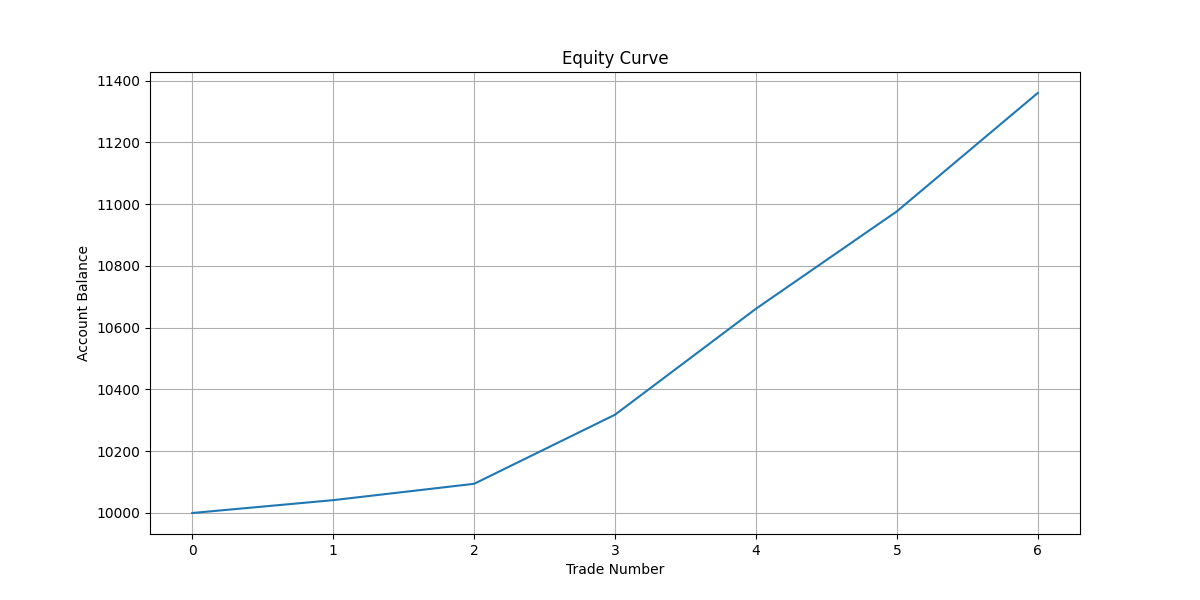
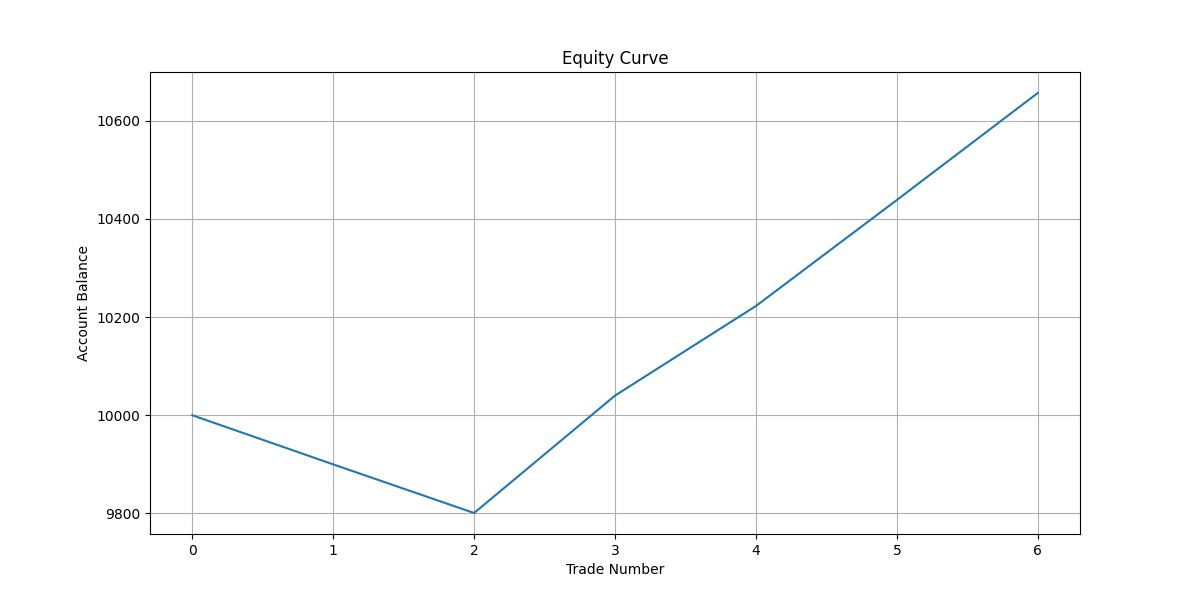
feat: Integrate ExitManager into simulation for consistent exit logic with live trading

diff --git a/ml/evaluation/simulate_pnl.py b/ml/evaluation/simulate_pnl.py
@@ -11,6 +11,7 @@ from ml.data.dataset_builder import TimeSeriesDataset
 from ml.models.lstm_model import LSTMClassifier
 import json
 from ml.evaluation.performance_tracker import PerformanceTracker
+from strategy.exits.exit_manager import ExitManager
 
 # Configure logging
 logging.basicConfig(
@@ -56,6 +57,22 @@ class PnLSimulator:
         self.rsi_oversold = rsi_oversold
         self.trailing_stop_activation = trailing_stop_activation or float(risk_config.get('trailing_stop_activation', 0.5))
         self.trailing_stop_distance = trailing_stop_distance or float(risk_config.get('trailing_stop_distance', 0.8))
+        
+        # Initialize ExitManager with config
+        trailing_config = {
+            "activation_threshold": self.trailing_stop_activation,
+            "trail_distance_atr_mult": self.trailing_stop_distance,
+            "max_loss_pct": self.max_loss_pct,
+            "max_holding_time": self.max_holding_periods
+        }
+        
+        hard_stop_config = {
+            "stop_loss_atr_mult": self.atr_multiplier,
+            "max_loss_pct": self.max_loss_pct,
+            "max_holding_time": self.max_holding_periods
+        }
+        
+        self.exit_manager = ExitManager(trailing_config, hard_stop_config)
         
         # Performance tracking
         self.balance_history = [initial_balance]
@@ -179,28 +196,6 @@ class PnLSimulator:
         position_size = risk_amount / (atr * self.atr_multiplier)
         return position_size
     
-    def update_trailing_stop(self, price: float, atr: float) -> None:
-        """Update trailing stop if conditions are met"""
-        if self.current_position is None:
-            return
-            
-        # Calculate profit target
-        target = abs(self.current_position['take_profit'] - self.current_position['entry_price'])
-        current_profit = abs(price - self.current_position['entry_price'])
-        
-        # Check if trailing stop should be activated
-        if current_profit >= target * self.trailing_stop_activation:
-            trailing_distance = atr * self.trailing_stop_distance
-            
-            if self.current_position['type'] == 'SELL':
-                new_stop = price + trailing_distance
-                if new_stop < self.current_position['stop_loss']:
-                    self.current_position['stop_loss'] = new_stop
-            else:  # BUY
-                new_stop = price - trailing_distance
-                if new_stop > self.current_position['stop_loss']:
-                    self.current_position['stop_loss'] = new_stop
-    
     def execute_trade(
         self,
         signal: Dict[str, Any],  # Changed from int to Dict
@@ -232,29 +227,22 @@ class PnLSimulator:
         
         # Check if we should close existing position
         if self.current_position:
-            # Update trailing stop if active
-            atr = self.calculate_atr()
-            self.update_trailing_stop(price, atr)
+            # Get price history for ATR calculation
+            high_prices = [p['high'] for p in self.price_history]
+            low_prices = [p['low'] for p in self.price_history]
+            close_prices = [p['close'] for p in self.price_history]
             
-            # Check stop conditions
-            stop_hit = price <= self.current_position['stop_loss'] if self.current_position['type'] == 'BUY' \
-                else price >= self.current_position['stop_loss']
-                
-            take_profit_hit = price >= self.current_position['take_profit'] if self.current_position['type'] == 'BUY' \
-                else price <= self.current_position['take_profit']
-                
-            # Close position if any exit condition is met
-            if stop_hit:
-                self.close_position(price, timestamp, "stop_loss")
-                return
-            elif take_profit_hit:
-                self.close_position(price, timestamp, "take_profit")
-                return
-                
-            # Check time-based exit
-            holding_time = timestamp - self.current_position['entry_time']
-            if holding_time.total_seconds() / 3600 >= self.max_holding_periods:
-                self.close_position(price, timestamp, "time_exit")
+            # Check exit conditions using ExitManager
+            exit_signal, exit_price, exit_reason = self.exit_manager.check_exit(
+                current_price=price,
+                high_prices=high_prices,
+                low_prices=low_prices,
+                close_prices=close_prices,
+                take_profit=self.current_position['take_profit']
+            )
+            
+            if exit_signal:
+                self.close_position(exit_price, timestamp, exit_reason)
                 return
         
         # Only open new position if confidence meets threshold
@@ -289,6 +277,16 @@ class PnLSimulator:
                 'entry_time': timestamp
             }
             
+            # Initialize ExitManager for new position
+            self.exit_manager.initialize_trade(
+                entry_price=price,
+                side='BUY',
+                high_prices=[p['high'] for p in self.price_history],
+                low_prices=[p['low'] for p in self.price_history],
+                close_prices=[p['close'] for p in self.price_history],
+                position_size=position_size
+            )
+            
         elif signal['action'] == 'sell' and not self.current_position:
             stop_loss = price + (atr * self.atr_multiplier)
             take_profit = price - (atr * self.atr_multiplier * 2)  # 2:1 reward-risk
@@ -303,6 +301,16 @@ class PnLSimulator:
                 'size': position_size,
                 'entry_time': timestamp
             }
+            
+            # Initialize ExitManager for new position
+            self.exit_manager.initialize_trade(
+                entry_price=price,
+                side='SELL',
+                high_prices=[p['high'] for p in self.price_history],
+                low_prices=[p['low'] for p in self.price_history],
+                close_prices=[p['close'] for p in self.price_history],
+                position_size=position_size
+            )
     
     def close_position(self, price: float, timestamp: datetime, reason: str) -> None:
         """Close current position and record trade"""
